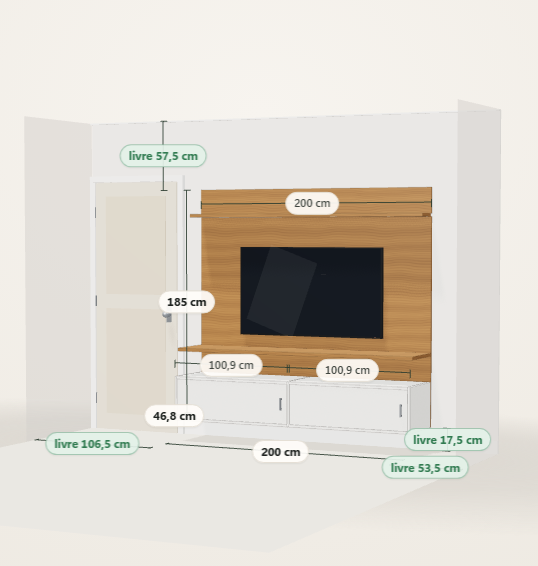
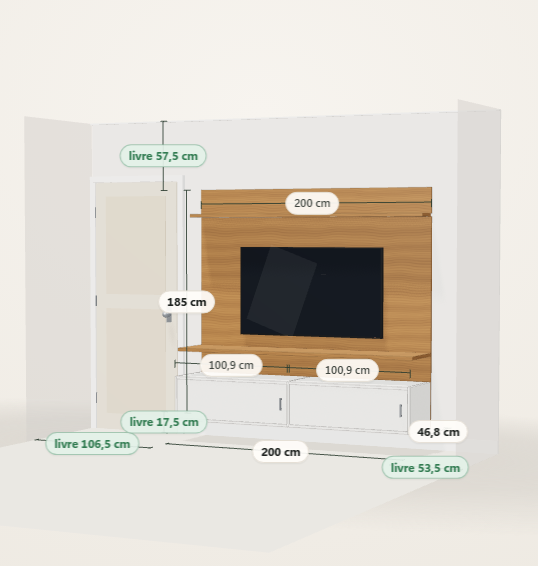
Profundidade do lado visível do móvel
A cota da parede até a frente ficava do lado esquerdo, que as vistas
perspectiva e lateral não mostram: via-se só o rótulo solto, sem a linha.
Agora fica na aresta direita, como numa caixa cotada: embaixo num móvel
suspenso e em cima num móvel no piso, onde rente ao chão o rótulo caía
sobre o livre até a parede. O vão até o chão volta para a coluna do livre
até o teto.

Changed region(s): [[0.7435, 0.7208, 0.9219, 0.811], [0.2379, 0.6908, 0.3866, 0.7809]]

diff --git a/lib/scene-dims.ts b/lib/scene-dims.ts
@@ -69,10 +69,13 @@ export function buildDims(parts: readonly Part[], bounds: SceneBounds, room: Roo
   const tallest = spans.reduce<(typeof spans)[number] | null>((a, b) => (!a || b.top > a.top ? b : a), null);
   const heightZ = tallest ? tallest.front : z1;
   dim(new THREE.Vector3(x0 - 140, y0, heightZ), new THREE.Vector3(x0 - 140, y1, heightZ), new THREE.Vector3(-1, 0, 0), cmLabel(y1 - y0), 'main');
-  // Profundidade no lado esquerdo, junto da altura: à direita ela disputava
-  // lugar com o espaço livre até a parede. Na base do móvel, não no chão: num
-  // rack suspenso ela ficava solta embaixo dele, coberta pelo livre à esquerda.
-  dim(new THREE.Vector3(x0 - 140, y0, z0), new THREE.Vector3(x0 - 140, y0, z1), new THREE.Vector3(-1, 0, 0), cmLabel(z1 - z0), 'main');
+  // Profundidade no lado direito: as vistas perspectiva e lateral olham da
+  // direita, e do lado esquerdo a linha ficava escondida atrás do móvel, só
+  // com o rótulo solto. Móvel suspenso: na aresta de baixo, junto do vão até o
+  // chão. Móvel no piso: na aresta de cima, porque rente ao chão o rótulo caía
+  // sobre o livre até a parede da direita.
+  const depthY = y0 > 5 ? y0 : y1;
+  dim(new THREE.Vector3(x1 + 140, depthY, z0), new THREE.Vector3(x1 + 140, depthY, z1), new THREE.Vector3(1, 0, 0), cmLabel(z1 - z0), 'main');
   if (spans.length > 1) {
     const seen = new Set<string>();
     for (const s of spans) {
@@ -103,9 +106,9 @@ export function buildDims(parts: readonly Part[], bounds: SceneBounds, room: Roo
   }
   // Vão até o chão de um móvel suspenso (rack flutuante, aéreo): sem ela a
   // altura geral começava no ar e as cotas verticais não fechavam o pé-direito.
-  // Fica à direita: à esquerda, rente ao chão, o rótulo caía sobre a profundidade.
+  // Na mesma coluna do livre até o teto, fechando a corrente chão, móvel, teto.
   if (y0 > 5)
-    dim(new THREE.Vector3(x1 + 140, 0, heightZ), new THREE.Vector3(x1 + 140, y0, heightZ), new THREE.Vector3(1, 0, 0), `livre ${cmLabel(y0)}`, 'free');
+    dim(new THREE.Vector3(x0 - 360, 0, heightZ), new THREE.Vector3(x0 - 360, y0, heightZ), new THREE.Vector3(-1, 0, 0), `livre ${cmLabel(y0)}`, 'free');
   const geometry = new THREE.BufferGeometry();
   geometry.setAttribute('position', new THREE.Float32BufferAttribute(points, 3));
   const material = new THREE.LineBasicMaterial({ color, transparent: true, opacity: 0.85, depthTest: false });
